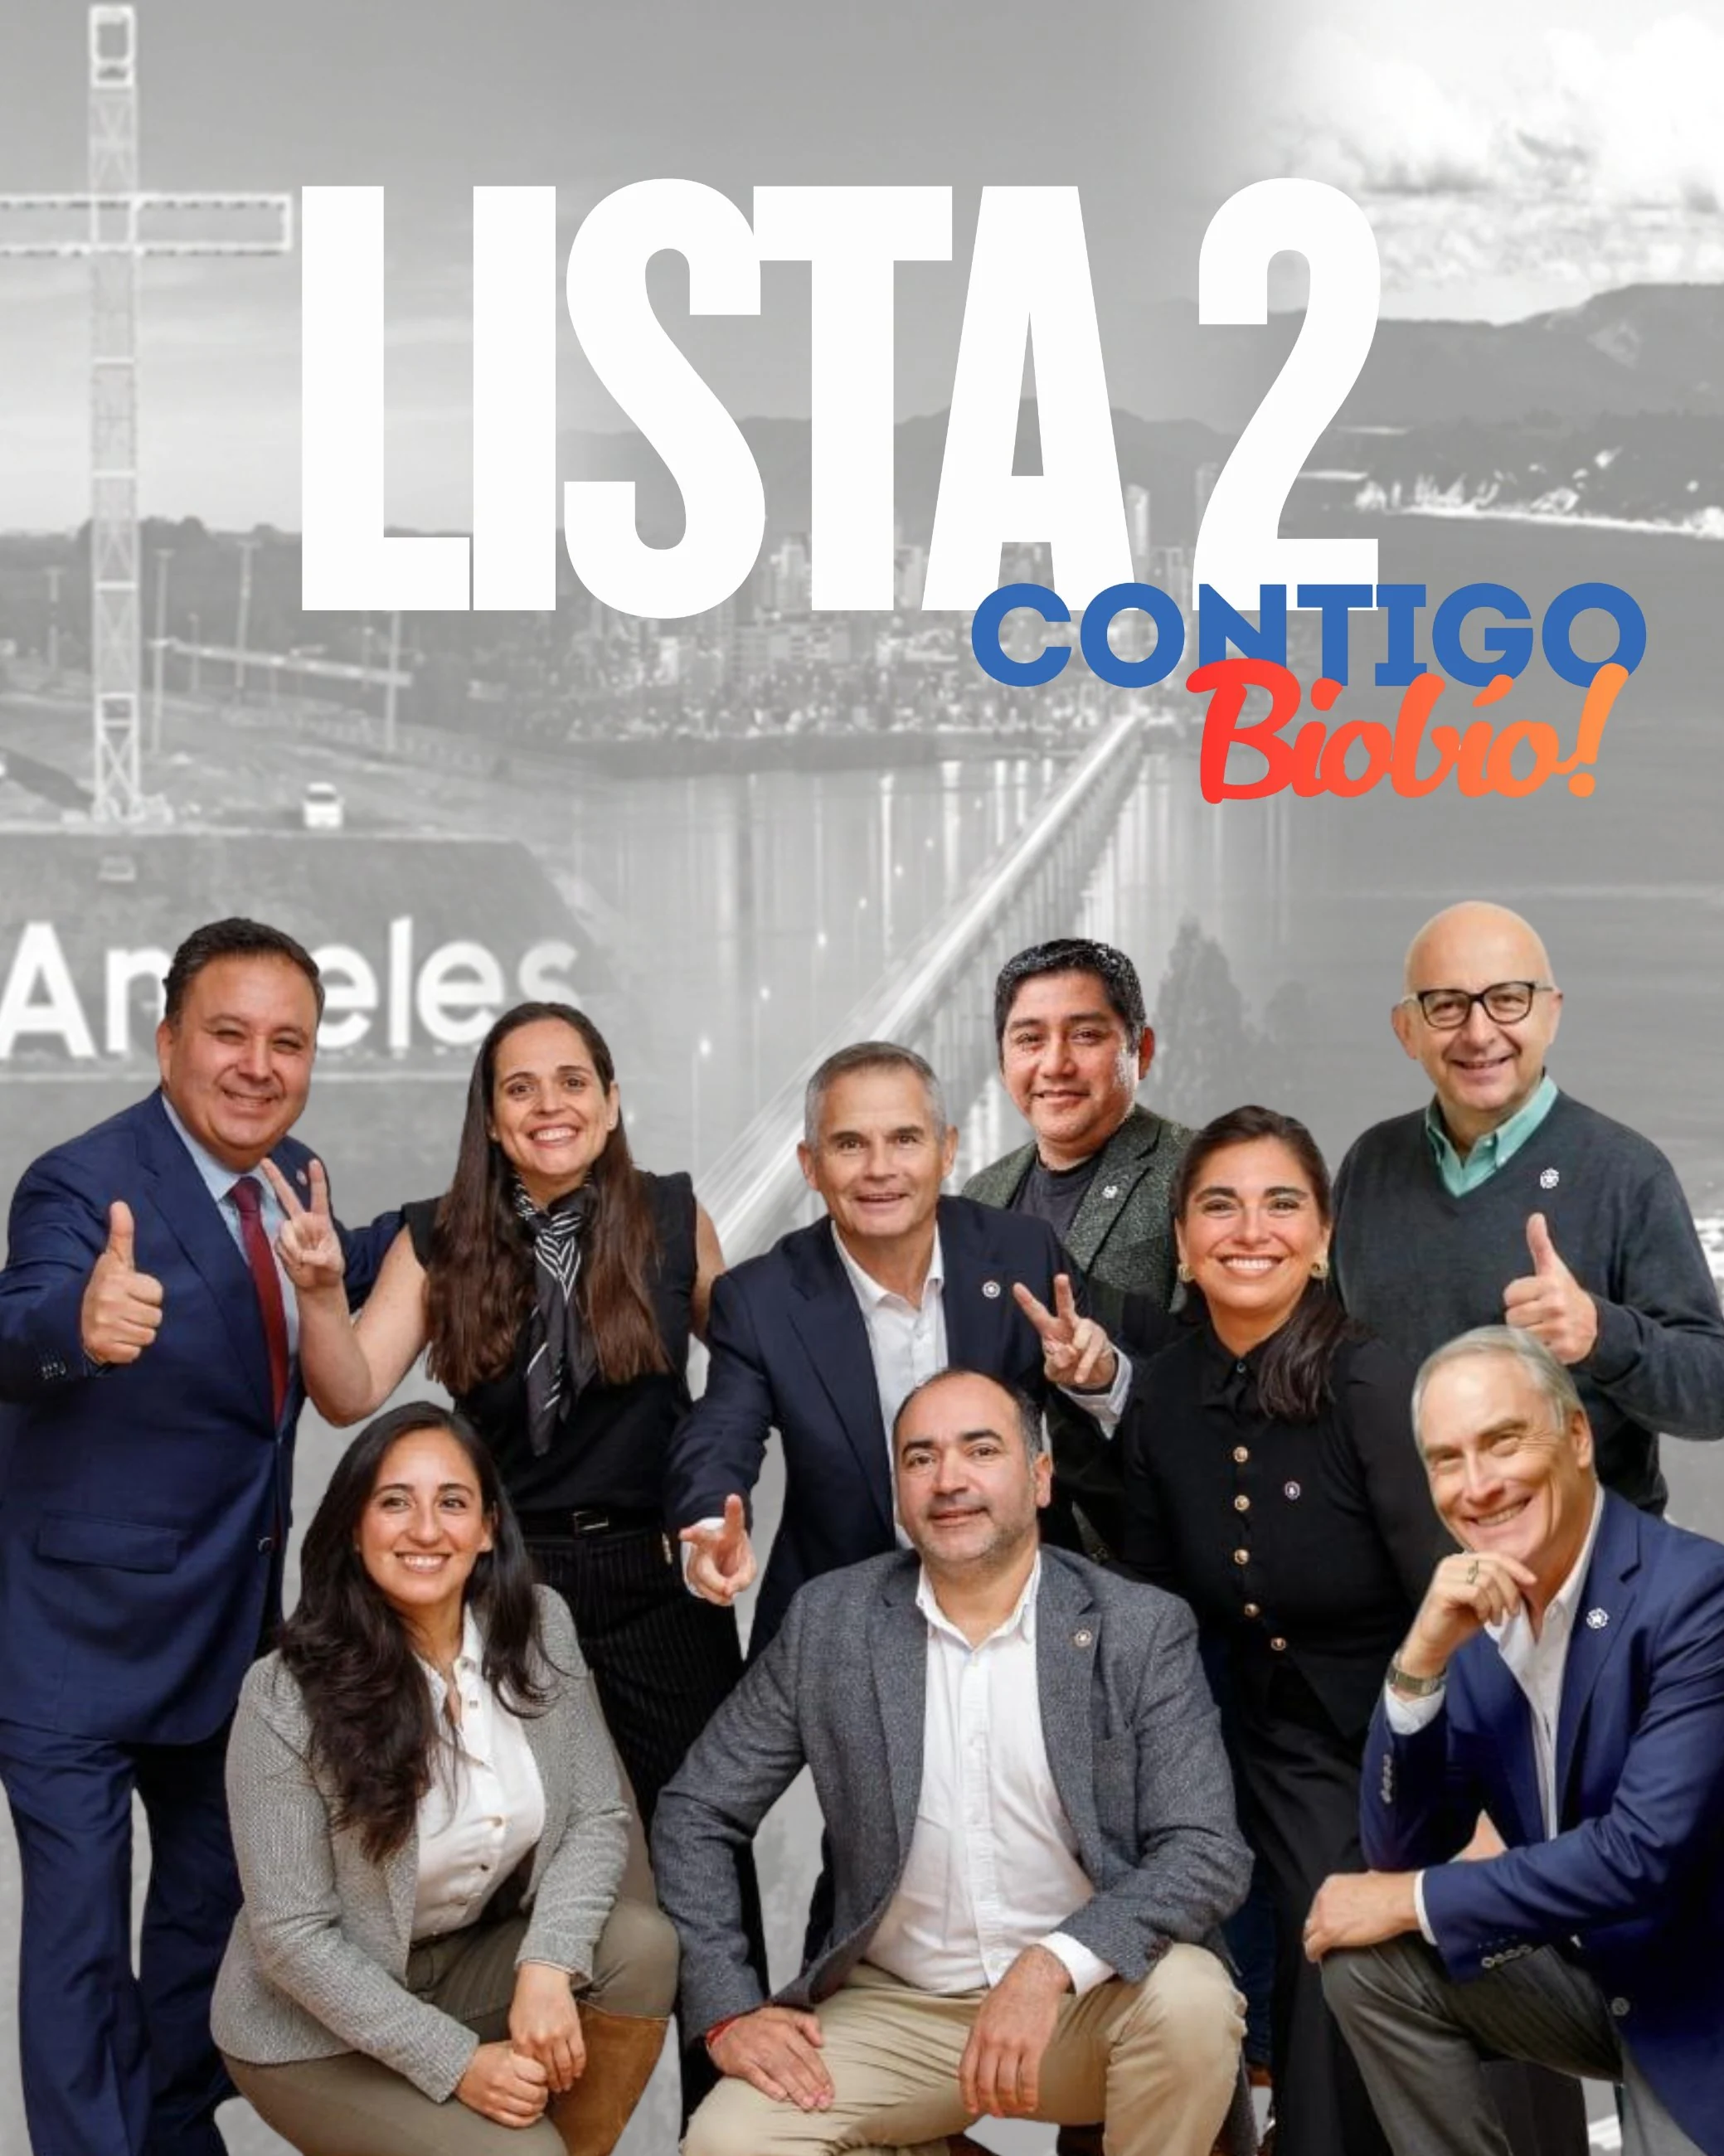
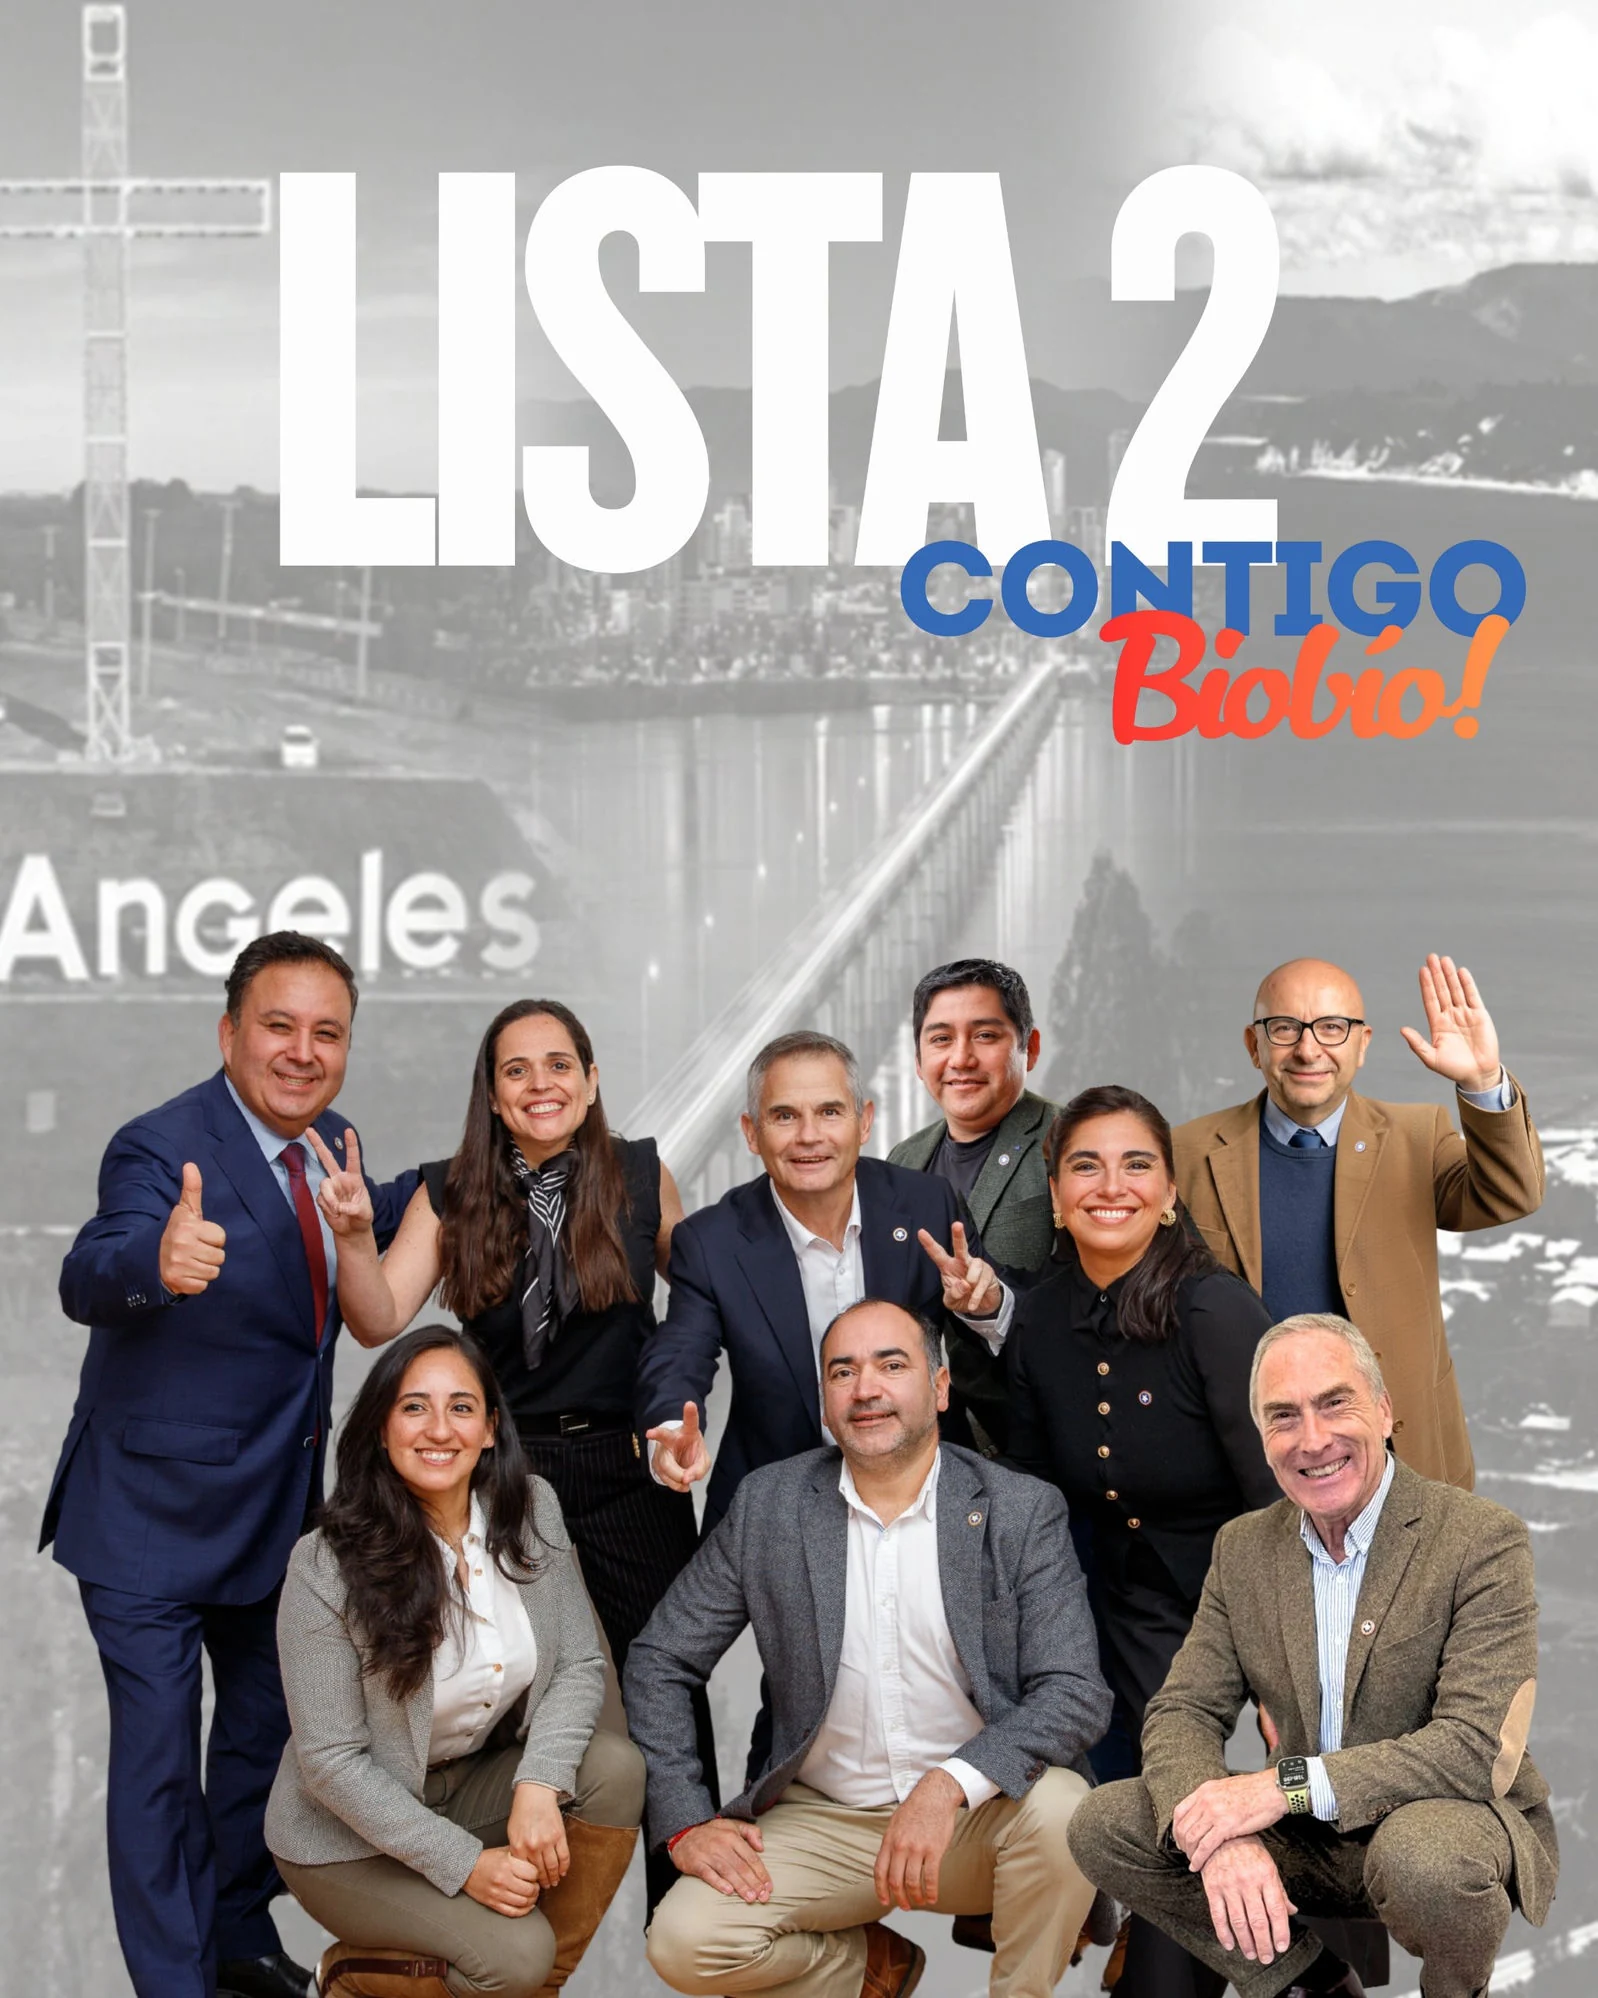
Add files via upload

diff --git a/index.html b/index.html
@@ -182,6 +182,15 @@
     letter-spacing:-.01em;
     color:var(--navy);
   }
+  .ejes-8-icon{
+    display:inline-block;
+    height:1.55em;
+    width:auto;
+    max-width:none;
+    vertical-align:-0.42em;
+    margin-right:.05em;
+    margin-left:-.05em;
+  }
   .section-head p{color:var(--muted);font-size:1.05rem;}
   .rule{
     width:64px;height:4px;background:var(--red);
@@ -554,8 +563,8 @@
     </div>
     <div class="presentacion-text">
       <p>La presente propuesta nace desde un diagnóstico crudo de la actual situación del Partido Republicano en nuestra Región y de nuestra profunda convicción de que una conducción cercana, participativa, transparente y conectada con la militancia, es lo que el Partido necesita, tal como nos lo ha señalado el espíritu de Jaime Guzmán y el liderazgo de José Antonio Kast.</p>
-      <p>Creemos firmemente que el Partido Republicano requiere una Directiva Regional que una, que termine con los conflictos, que esté abierta al diálogo, que con presencia activa en las 33 comunas, se comprometa con los principios partidarios por sobre los intereses personales o de grupos reducidos.</p>
-      <p>Finalmente nuestro compromiso es construir una región políticamente fortalecida, unida y preparada para enfrentar los desafíos futuros con organización, trabajo y sentido de Comunidad.</p>
+      <p>Creemos firmemente que el Partido Republicano requiere una Directiva Regional que nos una, que termine con los conflictos, que esté abierta al diálogo y que, con presencia activa en las 33 comunas, se comprometa con los principios partidarios por sobre los intereses personales o de grupos reducidos.</p>
+      <p>Finalmente nuestro compromiso es construir una región políticamente fortalecida, unida y preparada para enfrentar los desafíos futuros con organización, trabajo y sentido de comunidad.</p>
     </div>
   </div>
 </section>
@@ -573,7 +582,7 @@
         <div class="consejera-role">Presidente Regional · Biobío</div>
         <h3>Renato Navarro Genta</h3>
         <p class="consejera-bio">Desde el año 2019 he sido activo miembro fundador de Acción Republicana y luego del Partido Republicano. Ustedes me conocen y saben de mi trayectoria y espíritu de sacrificio en aras de nuestro Partido.</p>
-        <p class="consejera-bio">Oficial de Marina en retiro, Práctico de Puerto y 2 veces Jefe de Campaña de José Antonio Kast en el Gran Concepción, hoy aspiro a presidir nuestro Partido en la Región buscando incorporar más militantes, formarlos y darles oportunidades a los mejores para liderar y servir a Chile en los distintos cargos políticos.</p>
+        <p class="consejera-bio">Oficial de Marina en retiro, Práctico de Puerto y 2 veces Jefe de Campaña de José Antonio Kast en el Gran Concepción, y hoy aspiro a presidir nuestro Partido en la Región buscando incorporar más militantes, formarlos y darles oportunidades a los mejores para liderar y servir a Chile en los distintos cargos políticos.</p>
         <p class="consejera-quote">"Si me lo permiten, lideraré el Partido Republicano en el Biobío buscando servir a Chile, practicar la probidad y la excelencia!"</p>
       </div>
     </div>
@@ -624,7 +633,7 @@
   <div class="wrap">
     <div class="section-head">
       <div class="section-eyebrow">Propuesta</div>
-      <h2>Ocho Ejes de Trabajo</h2>
[1 lines of base64/hex data omitted]
       <div class="rule"></div>
     </div>
     <div class="ejes-grid">
@@ -654,7 +663,7 @@
           <li>Promover elecciones democráticas en todas las directivas comunales, compuestas de un Presidente, Secretario y Tesorero.</li>
 <li>Generar instancias de consulta y diálogo con la militancia regional, con política de puertas abiertas.</li>
 <li>Facilitar la aparición y consolidación de nuevos liderazgos y de dirigentes.</li>
-<li>La Directiva Regional deberá crear las condiciones que permitan fomentar el trabajo colaborativo entre comunales y estructuras regionales.</li>
+<li>La Directiva Regional deberá crear las condiciones que permitan fomentar el trabajo colaborativo entre Directivas comunales y estructuras regionales.</li>
         </ul>
       </div>
     </article>
@@ -663,7 +672,7 @@
       <div class="eje-num">03</div>
       <div class="eje-body">
         <h3>Presupuestación (PxQ) Bottom-Up</h3>
-        <p class="eje-objetivo">Las directivas Comunales estarán llamadas a planificar actividades sociales, de captación y formación, así como el uso de sedes comunales de ser posible, considerando los costos en un presupuesto.</p>
+        <p class="eje-objetivo">Las Directivas Comunales estarán llamadas a planificar actividades sociales, de captación y formación, así como el uso de sedes comunales de ser posible, considerando los costos en un presupuesto.</p>
         <p class="eje-label">Propuestas</p>
         <ul class="eje-list">
           <li>Las directivas comunales deberán presupuestar anualmente sus gastos considerando el PxQ (Precio por Cantidad) de cada actividad o adquisición.</li>